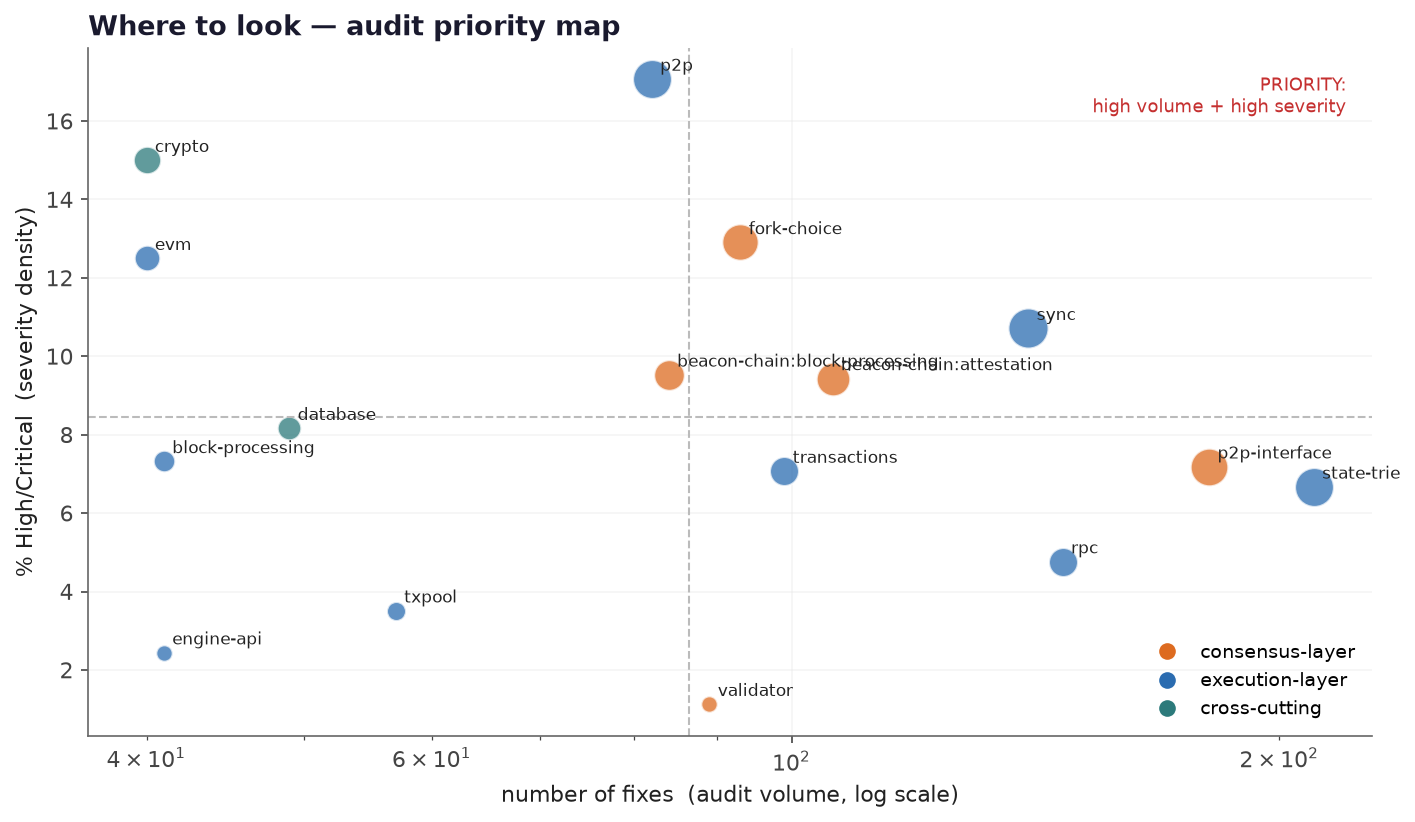
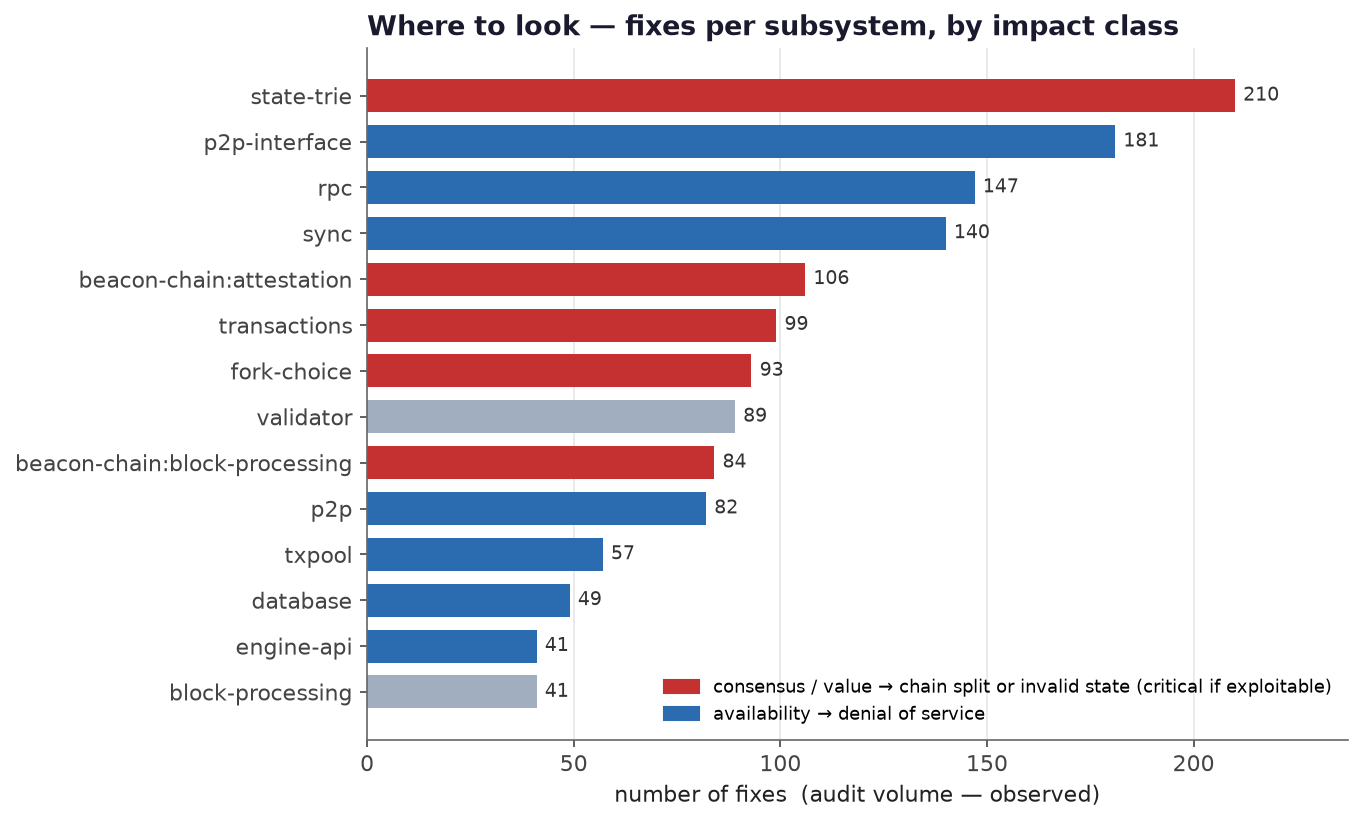
docs: drop circular severity-driver & unfounded silent-reservoir claims
Two corrections requested by review:
1. "Reachability drives severity" is circular — reachability is part of the
   bounty severity *definition* (single packet/tx), and severity_estimated is
   itself derived from root_cause/attack_path, so any root-cause->severity "lift"
   is doubly circular. Removed fig7 (lift + reservoir panels) and all lift
   numbers; §7 now states plainly that reachability is definitional, not a
   finding, and that we draw no root-cause->severity conclusions from estimated
   tiers.
2. The "silent reservoir" (N silently-patched fixes would rate High) is
   unfounded: we cannot tell whether those fixes were never reported or were
   reported via the bounty and then quietly patched. Removed entirely.

Replaced the priority map's estimated-severity axis with an honest one: fixes
per subsystem (observed volume) coloured by impact class from the bounty
*definition* (consensus/value = critical-if-exploitable; availability = DoS).
security_report §2/§4 reworked around observed volume + definitional impact
mapping; softened "silently" to "no CVE/advisory" throughout.

diff --git a/scripts/make_figures.py b/scripts/make_figures.py
@@ -131,42 +131,6 @@ print("figures written to",FG)
 import os
 for f in sorted(os.listdir(FG)): print("  ",f, round(os.path.getsize(FG+"/"+f)/1024),"KB")
 
-# ---- FIG 7: what raises severity (security-researcher view) -----------------
-# combined bounty tier: real grade where present, else LLM estimate (n=675)
-se=d.severity_estimated.fillna("") if "severity_estimated" in d.columns else d.severity
-hi=d[se.isin(['Critical','High'])]
-causes=[c for c in d.root_cause.value_counts().head(8).index if c!='other']
-lift=[]
-for rc in causes:
-    p_all=(d.root_cause==rc).mean(); p_hi=(hi.root_cause==rc).mean()
-    lift.append(p_hi/p_all if p_all else 0)
-order=np.argsort(lift)
-causes=[causes[i] for i in order]; lift=[lift[i] for i in order]
-fig,(a1,a2)=plt.subplots(1,2,figsize=(11.6,4.3))
-y=np.arange(len(causes))
-cols=[RED if l>1.15 else (GRAY if l<0.85 else BLUE) for l in lift]
-a1.hlines(y,1,lift,color=cols,lw=2,zorder=1); a1.scatter(lift,y,color=cols,s=60,zorder=2)
-a1.axvline(1,color="#888",lw=1,ls="--")
-a1.set_yticks(y); a1.set_yticklabels([c.replace('_',' ') for c in causes])
-a1.set_xlabel(f"severity lift   P(cause | High+Crit) / P(cause | all)   [n={len(hi)}]")
-a1.set_title("(a) What raises severity",loc="left",fontsize=12,color=INK,fontweight="bold")
-a1.text(max(lift)*0.62,0.2,"← under        over →",color="#777",fontsize=8)
-a1.grid(axis="y",visible=False)
-# (b) the silent reservoir: estimated bounty tier of the silently-patched fixes
-llm=d[d.severity_source=='llm-estimated'] if "severity_source" in d.columns else d.iloc[:0]
-res=llm.severity_estimated.value_counts().reindex(['High','Medium','Low','not-eligible']).fillna(0)
-colmap={'High':RED,'Medium':ORANGE,'Low':TEAL,'not-eligible':GRAY}
-yy=np.arange(len(res))[::-1]
-a2.barh(yy,res.values,color=[colmap[i] for i in res.index],height=0.7)
-a2.set_yticks(yy); a2.set_yticklabels([i for i in res.index])
-for yi,v in zip(yy,res.values): a2.text(v+10,yi,f"{int(v)}",va="center",fontsize=9,color="#333")
-a2.margins(x=0.16); a2.grid(axis="y",visible=False)
-nsev=int(res[['High','Medium','Low']].sum())
-a2.set_title(f"(b) The silent reservoir — bounty tier of {len(llm)}\n     silently-patched client fixes ({100*nsev/max(len(llm),1):.0f}% would be rated)",
-             loc="left",fontsize=11.5,color=INK,fontweight="bold")
-plt.tight_layout(); plt.savefig(f"{FG}/fig7_severity_drivers.png",bbox_inches="tight"); plt.close()
-print("fig7 written")
-
 # ---- FIG 8: attack surface — where the adversary's single packet/tx enters --
 # EF bounty severity requires a *remotely reachable* trigger ("single network
 # packet or onchain transaction"). Group attack_path by entry channel.
@@ -188,37 +152,37 @@ ax.set_yticks(y); ax.set_yticklabels(ch.index)
 for yi,v in zip(y,ch.values): ax.text(v+8,yi,str(int(v)),va="center",fontsize=9,color="#333")
 ax.margins(x=0.13); ax.grid(axis="y",visible=False)
 ax.set_title("Attack surface — where the adversary's input enters the node",loc="left",fontsize=12,color=INK,fontweight="bold")
-ax.text(ch.max()*0.55,0.1,"red/orange = remotely reachable\n(bounty-severity eligible)",fontsize=8.5,color="#555")
+ax.text(ch.max()*0.55,0.1,"red/orange = remotely reachable\n(attacker-controlled input)",fontsize=8.5,color="#555")
 plt.tight_layout(); plt.savefig(f"{FG}/fig8_attack_surface.png",bbox_inches="tight"); plt.close()
 print("fig8 written")
 
 # ---- FIG 9: audit priority map — where the severe bugs concentrate ----------
-se=d.severity_estimated.fillna("") if "severity_estimated" in d.columns else d.severity
-d['_hi']=se.isin(['Critical','High'])
+# Honest "where to look": VOLUME (observed) per subsystem, coloured by the impact
+# class each maps to BY THE BOUNTY DEFINITION (consensus/value = split/invalid-
+# state = critical-if-exploitable; availability = DoS). No estimated-severity axis.
 skip={'other','build-ci','test','cli','metrics-observability'}
-areas=[a for a in d.label.value_counts().index if a not in skip][:16]
-import numpy as np
-X=[];Y=[];S=[];L=[];C=[]
-CONS={'lighthouse','lodestar','nimbus','prysm','teku','grandine'}
-for a in areas:
-    sub=d[d.label==a]
-    X.append(len(sub)); Y.append(100*sub['_hi'].mean()); S.append(int(sub['_hi'].sum())); L.append(a)
-    # colour: consensus-layer areas vs execution vs cross-cutting
-    C.append(ORANGE if a.startswith('beacon-chain') or a in('fork-choice','validator','kzg-commitments','builder','p2p-interface') else (TEAL if a in('crypto','serialization','database') else BLUE))
-fig,ax=plt.subplots(figsize=(9.6,5.6))
-for x,y,s,l,c in zip(X,Y,S,L,C):
-    ax.scatter(x,y,s=40+s*22,color=c,alpha=0.75,edgecolor="white",linewidth=1,zorder=2)
-    ax.annotate(l,(x,y),fontsize=8.3,color="#222",xytext=(4,4),textcoords="offset points")
-ax.set_xscale("log"); ax.set_xlabel("number of fixes  (audit volume, log scale)")
-ax.set_ylabel("% High/Critical  (severity density)")
-ax.axhline(np.mean(Y),color="#bbb",ls="--",lw=1); ax.axvline(np.median(X),color="#bbb",ls="--",lw=1)
-ax.text(0.98,0.96,"PRIORITY:\nhigh volume + high severity",transform=ax.transAxes,ha="right",va="top",fontsize=8.5,color=RED)
-ax.set_title("Where to look — audit priority map",loc="left",fontsize=13,color=INK,fontweight="bold")
-from matplotlib.lines import Line2D
-leg=[Line2D([0],[0],marker='o',color='w',markerfacecolor=ORANGE,markersize=9,label='consensus-layer'),
-     Line2D([0],[0],marker='o',color='w',markerfacecolor=BLUE,markersize=9,label='execution-layer'),
-     Line2D([0],[0],marker='o',color='w',markerfacecolor=TEAL,markersize=9,label='cross-cutting')]
-ax.legend(handles=leg,loc="lower right",frameon=False,fontsize=9)
-ax.grid(True,alpha=0.4)
+areas=[a for a in d.label.value_counts().index if a not in skip][:14]
+CONSENSUS_VALUE={'evm','opcodes','precompiles','fork-choice','transactions','crypto',
+                 'kzg-commitments','serialization','state-trie'}
+def impact_class(a):
+    if a.startswith('beacon-chain') or a in CONSENSUS_VALUE: return ('consensus / value  (→ chain split or invalid state)',RED)
+    if a in {'p2p','p2p-interface','sync','rpc','txpool','database','engine-api'}: return ('availability  (→ DoS)',BLUE)
+    return ('other',GRAY)
+vol=[len(d[d.label==a]) for a in areas]
+cls=[impact_class(a) for a in areas]
+o=np.argsort(vol)
+areas=[areas[i] for i in o]; vol=[vol[i] for i in o]; cls=[cls[i] for i in o]
+fig,ax=plt.subplots(figsize=(9.2,5.6))
+y=np.arange(len(areas))
+ax.barh(y,vol,color=[c for _,c in cls],height=0.72)
+ax.set_yticks(y); ax.set_yticklabels(areas)
+for yi,v in zip(y,vol): ax.text(v+2,yi,str(v),va="center",fontsize=9,color="#333")
+ax.margins(x=0.13); ax.grid(axis="y",visible=False)
+ax.set_xlabel("number of fixes  (audit volume — observed)")
+ax.set_title("Where to look — fixes per subsystem, by impact class",loc="left",fontsize=13,color=INK,fontweight="bold")
+from matplotlib.patches import Patch
+ax.legend(handles=[Patch(color=RED,label='consensus / value → chain split or invalid state (critical if exploitable)'),
+                   Patch(color=BLUE,label='availability → denial of service')],
+          loc="lower right",frameon=False,fontsize=8.5)
 plt.tight_layout(); plt.savefig(f"{FG}/fig9_priority_map.png",bbox_inches="tight"); plt.close()
 print("fig9 written")

diff --git a/docs/security_report.md b/docs/security_report.md
@@ -14,82 +14,85 @@ languages, both layers). Numbers and examples are drawn from
 
 ## 1. What matters — the impact model that sets priorities
 
-Prioritize by **blast radius × remote reachability**, per the
+Rank findings by the **impact they could realize**, per the
 [Ethereum Foundation bug bounty](https://ethereum.org/en/bug-bounty/): a finding
-is severe if a **single network packet or on-chain transaction** can **split the
-chain**, **take the network down**, **create/steal ETH**, or **slash validators**.
-Everything below is ranked against that model — not CVSS, and not code-bug class
-in isolation. (Note: clients patch ~94% of issues *silently*, so **the historical
-fix record — not the CVE list — is the real map**; this guide is that map.)
+is Critical/High if a **single network packet or on-chain transaction** can
+**split the chain**, **take the network down**, **create/steal ETH**, or **slash
+validators**. This is the lens for everything below — not CVSS, and not code-bug
+class in isolation. (Most fixes carry **no CVE or public advisory**, so the
+historical **fix record — not the CVE list — is the more complete map** of where
+clients break; this guide is that map.)
 
-## 2. Where to look — the audit priority map
+## 2. Where to look — by volume and impact class
 
-![Figure 1 — audit priority map](figures/fig9_priority_map.png)
+![Figure 1 — where fixes concentrate, by impact class](figures/fig9_priority_map.png)
 
-Plotting every subsystem by **audit volume** (how many bugs it has produced) and
-**severity density** (share rated High/Critical) yields three actionable groups:
+Two *observed* facts scope an audit: **where fixes concentrate** (volume — where
+bugs historically occur) and **which impact class each subsystem maps to** by the
+bounty definition (a consensus- or value-affecting bug is Critical/High *if
+exploitable*; an availability bug is a DoS).
 
-**① Deep-audit first — low volume, high severity density.** Few fixes, but a bug
-here is disproportionately *critical* because it sits on consensus-critical or
-cryptographic paths:
+**Highest volume — most bugs land here.** `state-trie` (210), `p2p-interface`
+(181), `rpc` (147), `sync` (140), `beacon-chain:attestation` (106), `transactions`
+(99), `fork-choice` (93). Audit breadth first where the churn is.
 
-| Subsystem | fixes | %High/Crit | why it's severe |
-|---|---:|---:|---|
-| `crypto` | 40 | **15%** | signature/curve/hash errors → forgery, DoS, or divergence |
-| `evm` / `opcodes` / `precompiles` | ~80 | **12%** | any semantic disagreement = **chain split** |
+**Consensus- and value-critical — where an exploitable bug is *critical* by
+definition** (semantic disagreement → chain split; bad arithmetic → invalid
+value): the **EVM / opcodes / precompiles**, **gas & balance arithmetic**
+(`transactions`), **fork-choice**, the **beacon-chain state-transition**
+(`block-processing`, `attestation`), **state-trie**, and **crypto / KZG**. Note
+`crypto` and `evm` are **low-volume but consensus-critical** — few historical
+fixes, but a bug there is critical by definition, so deep-audit them.
 
-**② Highest priority — high volume *and* high severity.** The consensus and
-network core; audit breadth *and* depth here:
+**Availability — audit for DoS:** `p2p`, `p2p-interface`, `sync`, `rpc`, `txpool`,
+`database` — dominated by resource-exhaustion and missing input validation; audit
+for resource bounds on peer-controlled work.
 
-| Subsystem | fixes | %High/Crit | dominant cause → entry |
-|---|---:|---:|---|
-| `p2p` | 82 | **17%** | resource_exhaustion ← malicious p2p message |
-| `fork-choice` | 93 | **13%** | missing validation ← crafted state |
-| `sync` | 140 | **11%** | resource_exhaustion ← malformed input |
-| `beacon-chain:block-processing` | 84 | **10%** | **consensus_divergence** ← malformed input |
-| `beacon-chain:attestation` | 106 | **9%** | missing validation ← malicious attestation |
+Per-subsystem **dominant cause → entry point** (observed labels):
 
-**③ Highest volume, mostly availability.** Most churn and most bugs, but they
-skew toward liveness/DoS rather than consensus — audit for resource limits and
-input validation:
-
-| Subsystem | fixes | %High/Crit | dominant cause |
-|---|---:|---:|---|
-| `state-trie` | 210 | 7% | improper_state_update |
-| `p2p-interface` | 181 | 7% | missing_input_validation |
-| `rpc` | 147 | 5% | resource_exhaustion |
-
-**One-line takeaway:** *audit `crypto`, the `EVM`, and the consensus state-
-transition for **critical** (chain-split/value) bugs; audit `p2p`, `sync`, and
-`RPC` for **availability** (DoS) bugs.*
+| Subsystem | fixes | dominant cause → entry |
+|---|---:|---|
+| `state-trie` | 210 | improper_state_update ← malformed input |
+| `p2p-interface` | 181 | missing_input_validation ← malformed input |
+| `rpc` | 147 | resource_exhaustion ← malformed input |
+| `sync` | 140 | resource_exhaustion ← malformed input |
+| `beacon-chain:attestation` | 106 | missing_input_validation ← malicious attestation |
+| `fork-choice` | 93 | missing_input_validation ← crafted state |
+| `beacon-chain:block-processing` | 84 | consensus_divergence ← malformed input |
+| `p2p` | 82 | resource_exhaustion ← malicious p2p message |
+| `evm` | 40 | integer_overflow_underflow ← crafted state |
+| `crypto` | 40 | missing_input_validation ← malformed input |
 
 ## 3. The attack surface — where untrusted input enters
 
 ![Figure 2 — attack surface](figures/fig8_attack_surface.png)
 
-Severity requires a remotely-reachable trigger, so your taint sources are the
-places a node ingests adversary-controlled data. In order of exposure: **p2p /
-gossip** (messages, attestations, blocks, peers), the **untrusted-parsing** layer
-(RLP / SSZ / JSON decoders that run *before* validation), **on-chain transactions
-/ the EVM**, and **crafted chain state** (snap-sync, historical data). Start taint
-analysis here; the `internal_only` slice is not bounty-reachable.
+A remotely-triggerable bug originates where a node ingests adversary-controlled
+data — your taint sources. In order of exposure: **p2p / gossip** (messages,
+attestations, blocks, peers), the **untrusted-parsing** layer (RLP / SSZ / JSON
+decoders that run *before* validation), **on-chain transactions / the EVM**, and
+**crafted chain state** (snap-sync, historical data). Start taint analysis here.
 
-## 4. What raises severity — rank findings by class
+## 4. Rank a finding by the impact it could realize
 
-![Figure 3 — what raises severity](figures/fig7_severity_drivers.png)
+The bounty's impact categories map to concrete bug classes and code regions — use
+this to weight a finding by *what it could actually cause*, not by whether it
+carries a CVE:
 
-Three root causes are over-represented among High/Critical fixes and should raise
-your priority on a finding: **integer overflow/underflow (×1.71)** — gas/balance/
-slot arithmetic that can mint invalid value or diverge; **consensus divergence
-(×1.60)** — the chain-split class; and **resource exhaustion / DoS (×1.26)**.
-Conversely, `race_condition` (×0.29) and `unhandled_error/nil` (×0.67) are common
-but usually *locally* triggered and low-blast-radius — real bugs, lower priority
-under this model. (Fig 3b: most such severe bugs were **never publicly graded** —
-another reason to trust the fix record over the CVE list.)
+| Impact (bounty) | Realized by | Where it lives |
+|---|---|---|
+| **Chain split** | consensus_divergence | EVM opcodes/precompiles, gas accounting, fork-choice, beacon-chain state-transition |
+| **Invalid value / ETH** | integer_overflow, improper_state_update | gas & balance arithmetic, precompiles, state-trie |
+| **Network takedown (DoS)** | resource_exhaustion | p2p, rpc, sync, crypto |
+| **Validator slashing** | attestation / slashing validation | beacon-chain state-transition |
+
+*(Remote reachability is part of the severity **definition**, not a separate
+finding — a bug is only in scope if a single packet/tx can trigger it, which is
+exactly why §3's entry points matter.)*
 
 ## 5. The recurring vulnerability patterns — what to look for
 
-![Figure 4 — root cause & trigger](figures/fig2_rootcause_attack.png)
+![Figure 3 — root cause & trigger](figures/fig2_rootcause_attack.png)
 
 Six archetypes cover most of the corpus. Each is a hunting hypothesis: a
 mechanism, a trigger, and a **code smell** to grep for.
@@ -125,9 +128,9 @@ key. Subsystems fixed in *many* clients are the best variant-hunting grounds:
 
 **The method (N-day / variant analysis):** take a fix in client *A*, find the
 analogous code in *B…K* by `label`, and check whether the same guard exists.
-Because fixes are usually silent, a fix that landed in one client is frequently
-**not yet** mirrored in the others — a repeatable path to fresh findings unique to
-a multi-implementation ecosystem. Its sharpest form is **spec-divergence testing**
+Because fixes usually ship without an advisory, a fix that landed in one client is
+frequently **not yet** mirrored in the others — a repeatable path to fresh findings
+unique to a multi-implementation ecosystem. Its sharpest form is **spec-divergence testing**
 (P5): where clients implement the same pyspec/EELS function (EVM opcodes,
 precompiles, SSZ, epoch processing), fuzz edge cases for behavioural disagreement
 — the direct route to chain-split severity.
@@ -165,8 +168,9 @@ precompiles, SSZ, epoch processing), fuzz edge cases for behavioural disagreemen
    bug shared by clients with >33% combined share is a network-level event; a bug
    in one client is a lead to check the others. Diversity both mitigates and
    *reveals* bugs (variant hunting).
-5. **Prioritize by reachability × blast radius, not by CVE existence.** The
-   highest-impact bugs here were patched silently; a CVE-only view misses them.
+5. **Prioritize by the impact a bug could realize** (chain split / DoS / value /
+   slashing), not by whether it carries a CVE. Most fixes here have no CVE, so a
+   CVE-only view misses them.
 
 ## 9. Audit playbook (checklist)
 

diff --git a/docs/analysis.md b/docs/analysis.md
@@ -6,16 +6,16 @@ security fixes across the eleven production Ethereum clients.*
 
 > **Key takeaways.** For anyone auditing Ethereum clients (or other blockchain /
 > consensus systems), the data says: (1) the **historical fix record — not the
-> CVE list — is the real map**, since ~94% of fixes ship silently; (2) the threat
-> profile is **availability- and consensus-centric** (untrusted network input
-> crashing or diverging a node), not the memory-corruption profile of generic
-> C/C++ datasets; (3) severe bugs concentrate in a few regions — **crypto, the
-> EVM, and the consensus state-transition** for chain-split/value bugs, **p2p /
-> sync / RPC** for DoS — and severity tracks **reachability × blast radius** (led
-> by integer-overflow, consensus-divergence, resource-exhaustion); (4) fixes are
-> **localized** (43% single-file); and (5) because **one spec is implemented
-> eleven ways in six languages**, a fix in one client is a variant lead for the
-> other ten. The actionable version is the audit field guide
+> CVE list — is the more complete map**, since ~94% of fixes carry no CVE or
+> advisory; (2) the threat profile is **availability- and consensus-centric**
+> (untrusted network input crashing or diverging a node), not the memory-
+> corruption profile of generic C/C++ datasets; (3) by the bounty's impact
+> definition, **consensus, EVM and crypto code is where an exploitable bug is
+> *critical*** (chain split / invalid value) while **p2p / sync / RPC is where
+> *DoS* lives**, so scope an audit accordingly; (4) fixes are **localized** (43%
+> single-file); and (5) because **one spec is implemented eleven ways in six
+> languages**, a fix in one client is a variant lead for the other ten. The
+> actionable version is the audit field guide
 > ([`security_report.md`](./security_report.md)); below, each finding is
 > cross-checked against the vulnerability-dataset literature (CVEfixes, BigVul,
 > Devign, CrossVul, DiverseVul, PrimeVul, Croft et al.).
@@ -119,51 +119,28 @@ across implementations. It is the diversity dimension DiverseVul and CrossVul
 argue reduces overfitting, obtained here **within a single well-specified
 domain**.
 
-## 7. What raises severity
+## 7. Severity — what the bounty counts, and what we can honestly say
 
-Severity here is the **Ethereum Foundation bug-bounty** grade (network-scale
-impact × single-packet/tx reachability), not CVSS. Only **6.4%** of rows were
-graded by the bounty, so we estimate the rest with an LLM decomposition
-(`impact_type` / `reachability` / `blast_radius`) calibrated against the graded
-rows (~60% exact / ~80% within ±1 tier on real severe bugs; method:
-[`severity_labeling.md`](./severity_labeling.md)). Combining graded + estimated
-tiers, **675 rows (30%) now carry a bounty tier** (176 High/Critical), enough for
-a robust reading.
+Severity here is the **Ethereum Foundation bug-bounty** grade: an impact reachable
+by a single packet / on-chain tx that splits the chain, takes the network down,
+corrupts value, or slashes validators (not CVSS). Two honest caveats bound what
+this dataset supports:
 
-![Figure 7](figures/fig7_severity_drivers.png)
-
-**(a) Reachability × blast-radius is the severity driver** (Fig, left; n=176).
-Three root causes are *over-represented* in High/Critical: **integer_overflow
-(lift ×1.71)**, **consensus_divergence (×1.60)**, and **resource_exhaustion / DoS
-(×1.26)** — precisely the classes that map to the bounty's impact categories
-(invalid-ETH / chain split / network takedown). Conversely **`race_condition` has
-lift ≈ 0.29** and `unhandled_error/nil` ≈ 0.67: common bugs, but locally-triggered
-and low-blast-radius, so out of the "single-packet/tx, network-scale" severity
-model by definition. Severity tracks *what the bounty pays for*, not code-bug
-class alone.
-
-**(b) The silent reservoir — most severe fixes were never graded** (Fig, right).
-Of the **1,552 silently-patched client fixes, ~34% (532) carry a bounty-relevant
-tier when assessed** — **110 High, 242 Medium, 180 Low** — and the estimated-High
-ones are dominated by `liveness_dos` (89) and `chain_split` (21). Only 60 fixes
-in the whole corpus were actually bounty-graded, so the public severity record
-**understates the severe population by roughly an order of magnitude**; the
-`severity_estimated` / `severity_source` columns expose the would-be-rated slice
-explicitly (never overwriting the 60 ground-truth grades).
-
-**Reporting bias, not a severity map.** Among the *graded* rows, Geth dominates —
-not because Geth is buggier, but because it publishes GitHub Security Advisories
-while most clients patch silently. The graded slice measures **disclosure policy,
-not security posture**. And fix size does **not** separate severity (median ~51
-LOC high vs 45 overall) — you cannot spot a critical bug by diff size.
-
-*Takeaways for a researcher.* (i) Prioritize by **attacker-reachability ×
-subsystem** (p2p, rpc, crypto, consensus state-transition) rather than by whether
-a CVE exists. (ii) The **unrated `consensus_divergence` / `resource_exhaustion`
-rows are a hunting ground** for under-triaged severe bugs — the corpus surfaces
-exactly the silent, high-impact fixes that CVE-anchored datasets miss. (iii)
-Because one spec is implemented eleven ways, a severe fix in one client is a lead
-to look for its **silent analogue in the others** (§6).
+- **Remote reachability is part of the *definition*, not a finding.** Because a
+  bug is only graded when it is remotely triggerable, "reachable bugs are the
+  severe ones" is true *by construction* — not an empirical result. What the data
+  adds is *where the impactful code is*: consensus / EVM / crypto for
+  chain-split/value bugs, p2p / sync / RPC for DoS (the audit priority map,
+  [`security_report.md`](./security_report.md) §2).
+- **Only 6.4% of rows were bounty-graded.** The rest are LLM-*estimated*
+  ([`severity_labeling.md`](./severity_labeling.md)), and that estimate is derived
+  partly from `root_cause` / `attack_path` — so we deliberately draw **no**
+  "root-cause X raises severity" conclusion from it, which would be circular.
+  Treat `severity_estimated` as a triage prior and filter to
+  `severity_source == bounty-graded` for ground truth. Note also that a graded row
+  reflects **disclosure policy** (which clients publish advisories), not relative
+  security posture, and fix size does **not** separate severity (median ~51 LOC
+  high vs 45 overall) — you cannot spot a critical bug by diff size.
 
 ## 8. Data quality and coverage
 